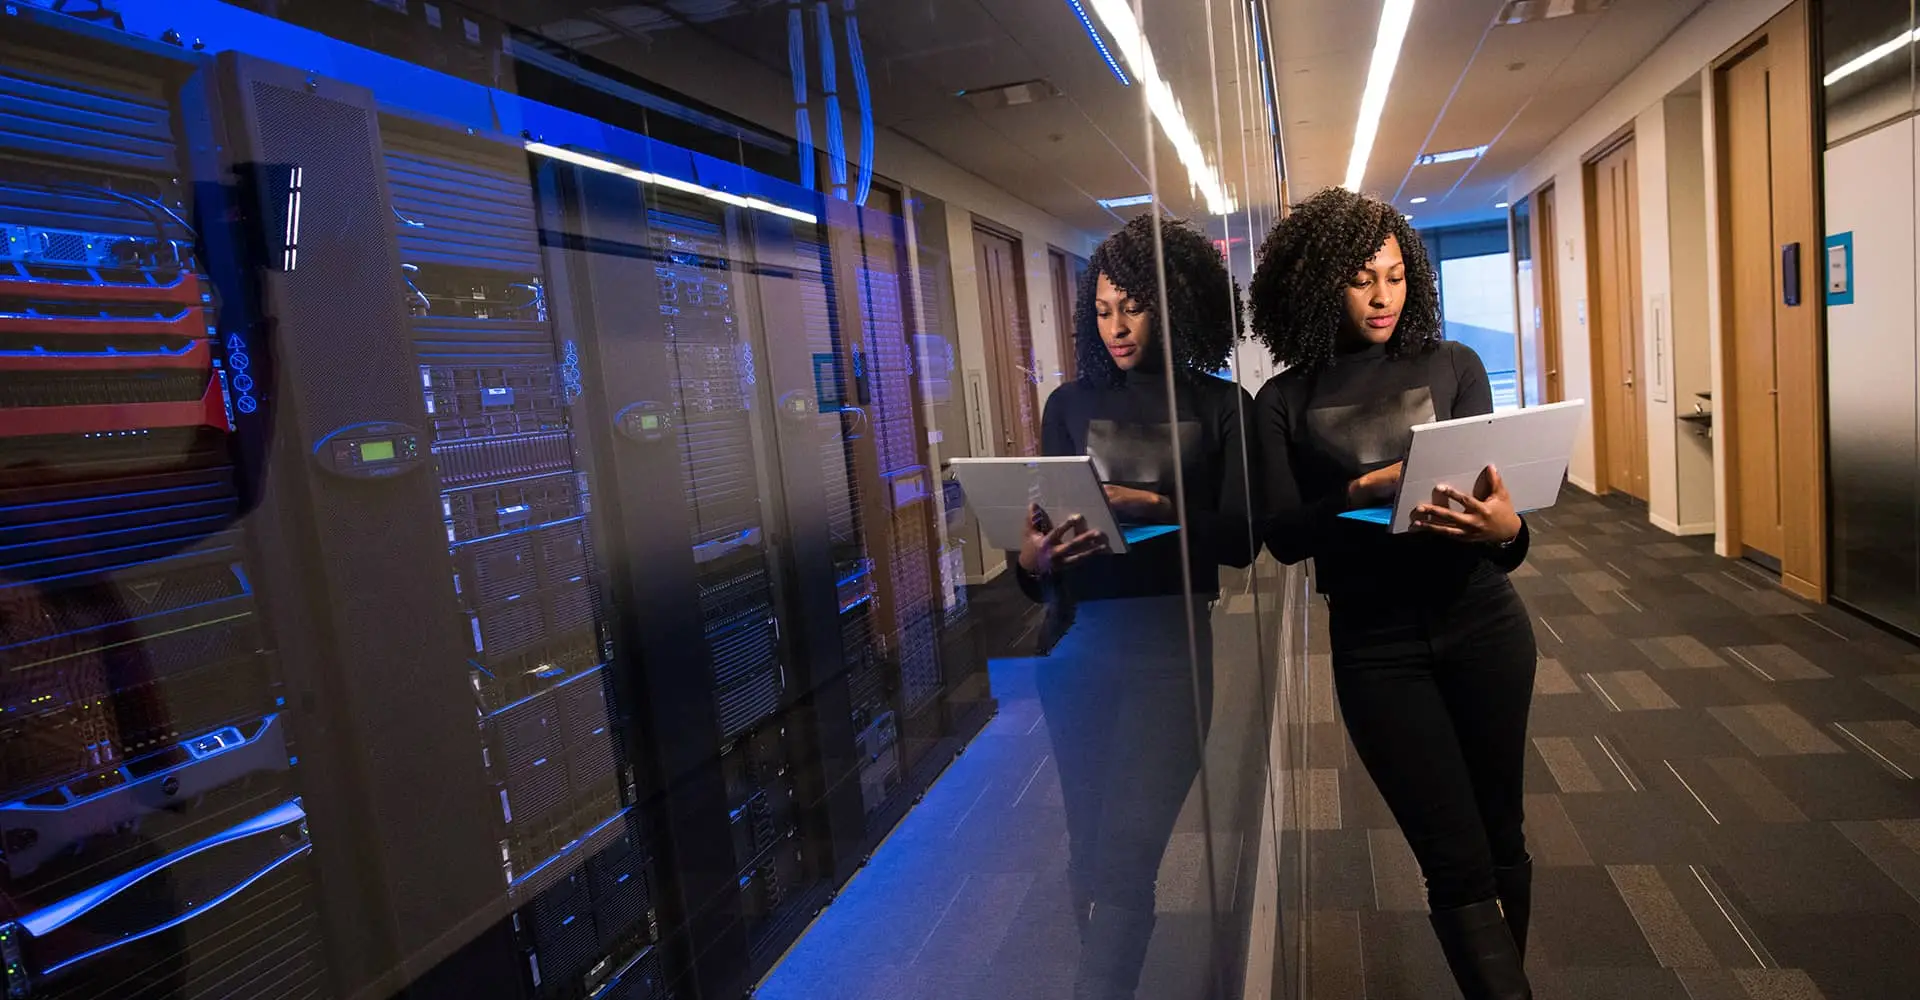
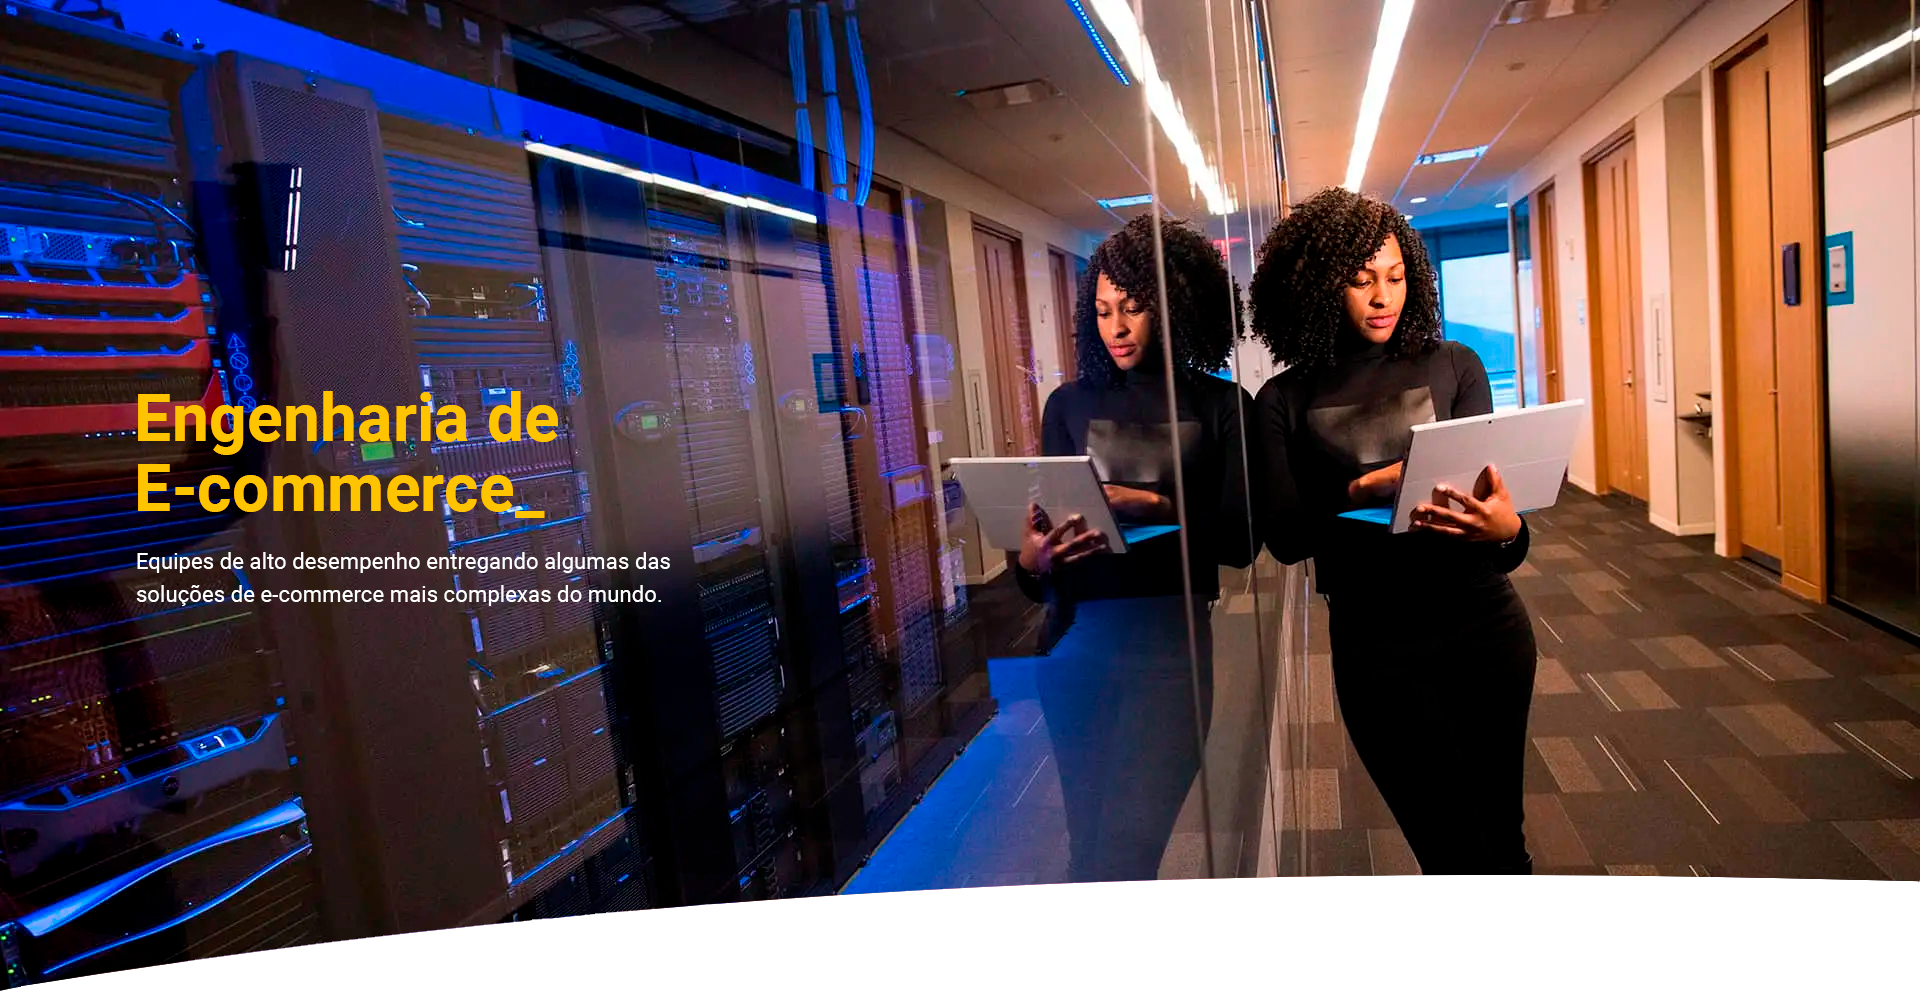
Adicionado bloco Trusted By

diff --git a/styles/css/vtex.flex-layout.css b/styles/css/vtex.flex-layout.css
@@ -62,6 +62,7 @@
   width: 100%;
 }
 
+/* ABOUT*/
 /* About Inner Banner*/
 .flexRow--about-banner {
   background-image: url('assets/img/cover-about-us.jpg');
@@ -76,6 +77,17 @@
   width: 38%;
 }
 
+/*Trusted By*/
+.flexRow--trusted-by-icons01,
+.flexRow--trusted-by-icons02 {
+  margin: 0rem 5rem;
+}
+
+.flexRow--trusted-by-icons02 {
+  margin-bottom: 5rem;
+}
+
+/*CONTACT*/
 /* Contact Inner Banner*/
 .flexRow--contact-banner {
   background-image: url('assets/img/cover-contact.jpg');
@@ -118,7 +130,7 @@
   width: 1140px;
   margin-left: auto;
   margin-right: auto;
-  padding-bottom: 80px;
+  padding-bottom: 55px;
 }
 
 /* Footer */

diff --git a/styles/css/vtex.store-components.css b/styles/css/vtex.store-components.css
@@ -7,6 +7,24 @@
   width: 100%;
 }
 
+/* Trusted by image */
+.imageElement--brand-icon-image {
+  -webkit-transition: all 0.7s ease;
+  transition: all 0.7s ease;
+  -webkit-transform: scale(1.3);
+  transform: scale(1.3);
+  filter: grayscale(100%);
+
+  height: 100px;
+  width: 100px;
+}
+
+.imageElement--brand-icon-image:hover {
+  -webkit-transform: scale(1);
+  transform: scale(1);
+  filter: grayscale(0%);
+}
+
 /* Contact */
 .imageElement--contact-image {
   border-bottom: 1rem solid #fcc200;

diff --git a/styles/css/vtex.rich-text.css b/styles/css/vtex.rich-text.css
@@ -95,6 +95,15 @@
   padding-right: 35px;
 }
 
+/* Trusted by*/
+.wrapper--trusted-by-title {
+  background: linear-gradient(to right, #000000 92%, #fcc200 0);
+  padding-top: 50px;
+  padding-bottom: 50px;
+  -webkit-background-clip: text;
+  -webkit-text-fill-color: transparent;
+}
+
 /* -------------- CONTACT -------------- */
 .paragraph--contact-banner {
   color: #ffffff;
